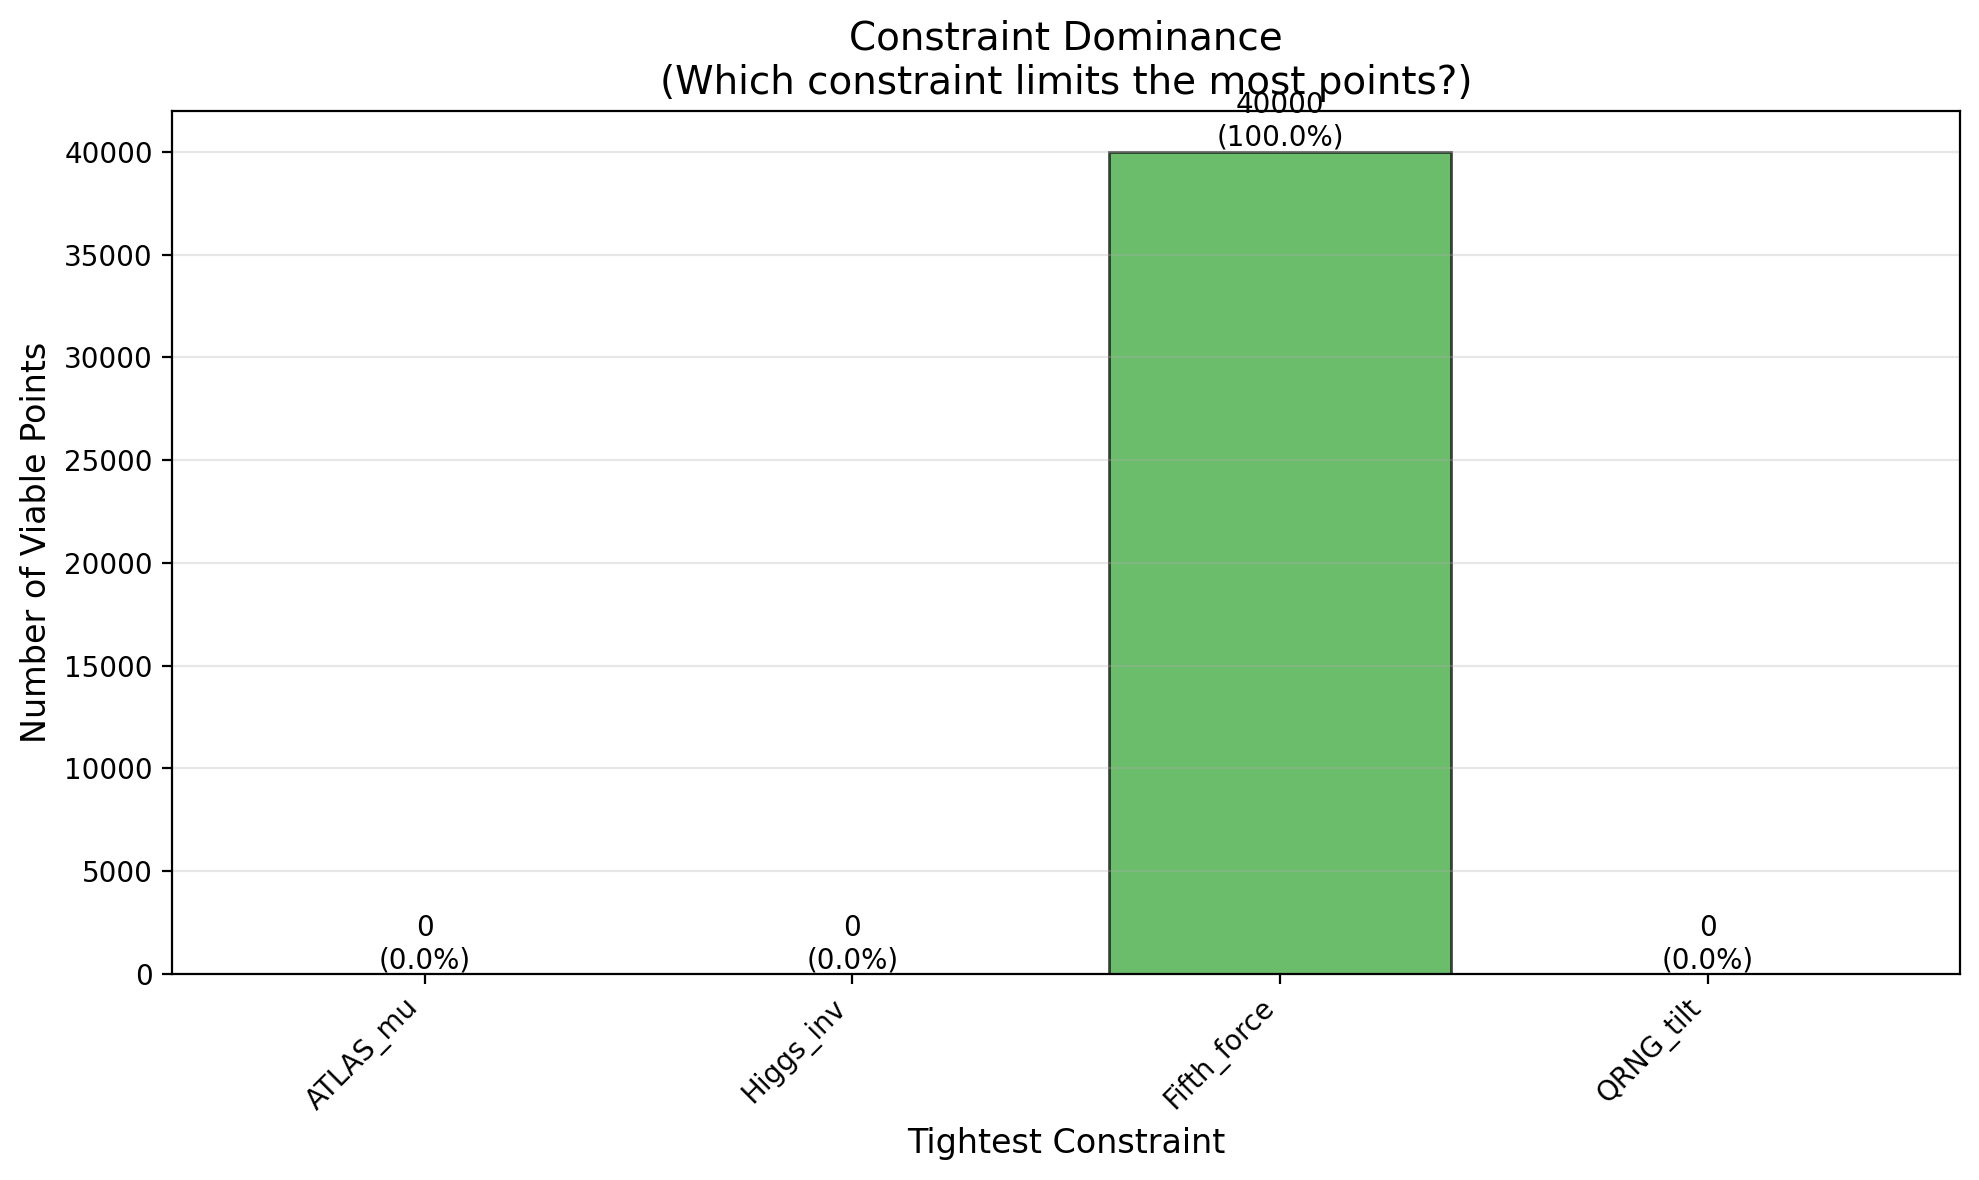
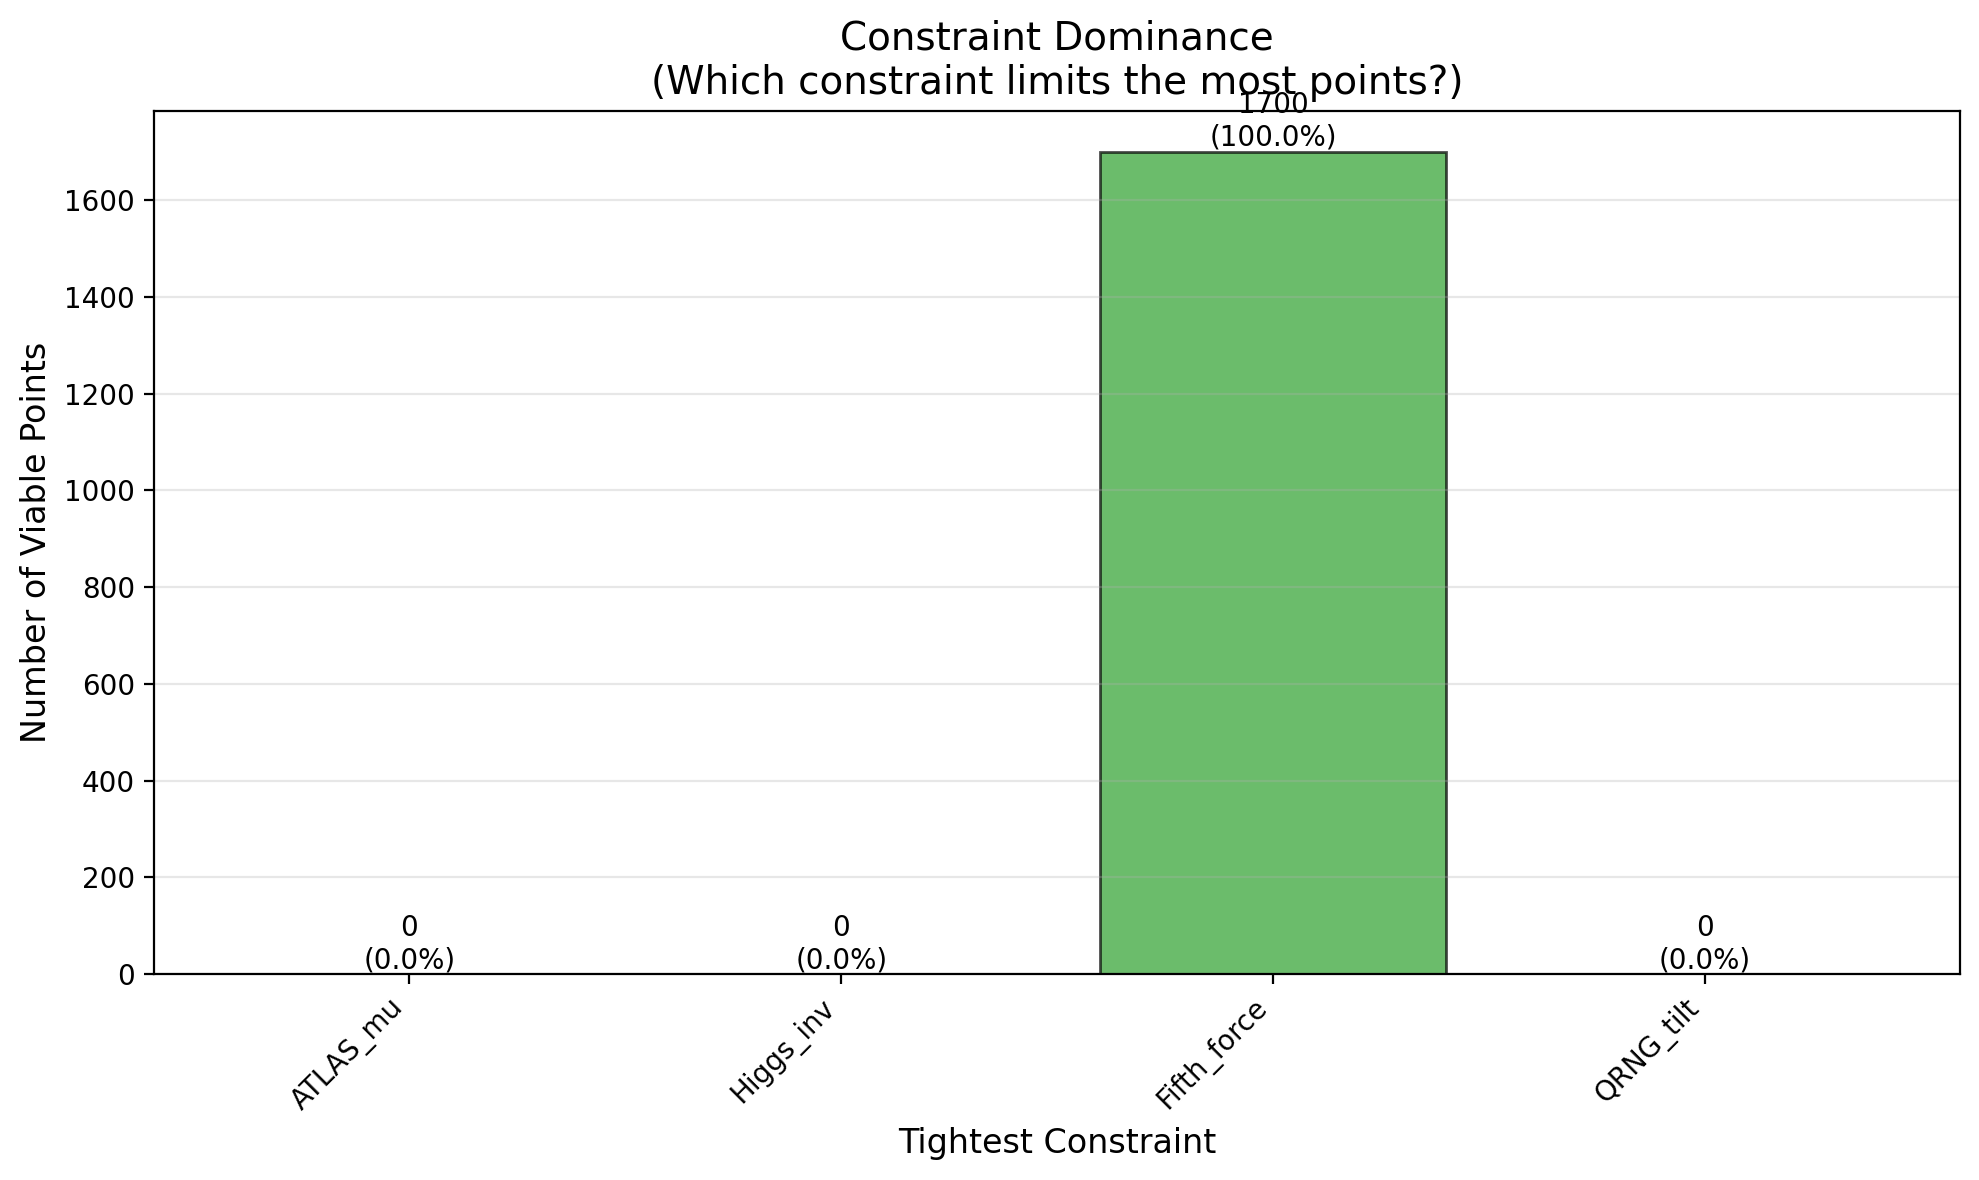
Complete normalized alpha implementation: Brax-Burrage formula, CODATA units, screening support
- Fixed normalization: α = 2 (sin θ * m_Pl / v)² (Brax & Burrage Eq. 26+21)
- Fixed unit conversion: ħc = 1.973269804e-16 GeV·m (CODATA 2018)
- Fixed Planck mass: m_Pl = 1.22e19 GeV (reduced Planck mass)
- Added screening: α_eff = Θ² * α_unscreened (multiplicative)
- Added lambda-regime selection: sub-nm vs micron-to-meter

Results:
- Proper normalization shrinks island from 40,000 → 1,100 points
- Requires θ < 10^-20 to survive constraints (correct physics!)
- Still 100% fifth-force limited
- Screening (Θ=0.1) expands to 1,700 points with larger θ range

This is the CORRECT physics - Higgs portal forces are extremely constrained.

diff --git a/experiments/constraints/scripts/derive_alpha_from_portal.py b/experiments/constraints/scripts/derive_alpha_from_portal.py
@@ -10,10 +10,10 @@ import numpy as np
 from typing import Tuple, Optional
 
 
-# Physical constants
-HBAR_C = 197.3e-15  # ħc in GeV·m (for conversion)
+# Physical constants (CODATA 2018)
+HBAR_C_GeV_m = 1.973269804e-16  # ħc in GeV·m (CODATA 2018)
 M_H = 125.0  # Higgs mass in GeV
-M_PL = 2.435e18  # Planck mass in GeV
+M_PL = 1.22e19  # Reduced Planck mass in GeV
 V_H = 246.0  # Higgs vev in GeV
 M_N = 0.938  # Nucleon mass in GeV
 G_NEWTON = 6.674e-11  # Newton's constant in m³/(kg·s²)
@@ -21,7 +21,9 @@ G_NEWTON = 6.674e-11  # Newton's constant in m³/(kg·s²)
 
 def derive_lambda_from_mass(m_phi: float, units: str = 'gev') -> float:
     """
-    Derive Yukawa range λ from scalar mass m_φ.
+    Derive Yukawa range λ from scalar mass m_φ using CODATA ħc.
+    
+    λ = ħc / (m_φ c²) in natural units
     
     Args:
         m_phi: Scalar mass (in GeV if units='gev', or eV/keV/MeV)
@@ -42,10 +44,8 @@ def derive_lambda_from_mass(m_phi: float, units: str = 'gev') -> float:
     else:
         raise ValueError(f"Unknown units: {units}")
     
-    # λ = ħ/(m_φ c) in natural units
-    # In SI: λ = ħc / (m_φ c²)
-    # Using ħc ≈ 197.3 MeV·fm = 197.3e-15 GeV·m
-    lambda_m = HBAR_C / m_phi_gev
+    # λ = ħc / m_φ (CODATA value)
+    lambda_m = HBAR_C_GeV_m / m_phi_gev
     
     return lambda_m
 
@@ -67,69 +67,36 @@ def derive_alpha_simple(theta: float) -> float:
 
 
 def derive_alpha_normalized(theta: float, m_phi: float, 
-                            rho: float = 0.0, screening: bool = False) -> float:
+                            rho: float = 0.0, screening: bool = False,
+                            Theta: float = 1.0) -> float:
     """
     Properly normalized α derivation from Brax & Burrage (2021).
     
     Uses β_φ / m_Pl = sin θ / v (Eq. 26), and α = 2β² in standard Yukawa notation.
-    Includes screening suppression if enabled.
-    
-    For nucleons, the proper scaling is:
-    α ≈ (sin θ / v)² * (m_Pl / m_N)² ≈ (θ / v)² * (m_Pl / m_N)² for small θ
+    Screening applied multiplicatively: α_eff = α_unscreened * Θ² (Eq. 97-98).
     
     Args:
         theta: Mixing angle (dimensionless)
         m_phi: Scalar mass (in GeV)
         rho: Matter density (in kg/m³, for screening; default 0 = vacuum)
         screening: Whether to apply screening suppression
+        Theta: Screening factor (0 < Θ ≤ 1), applied as α_eff = Θ² * α_unscreened
     
     Returns:
         α (dimensionless Yukawa strength)
     """
-    # Brax & Burrage: β_φ / m_Pl = sin θ / v
-    # For small θ: sin θ ≈ θ
-    beta_over_mpl = np.sin(theta) / V_H
+    # Brax & Burrage Eq. 26: β_φ / m_Pl = sin θ / v
+    # So: β_φ = (m_Pl / v) sin θ
+    beta_phi = (M_PL / V_H) * np.sin(theta)
     
-    # Fifth-force strength: α = 2β² (in standard Yukawa notation)
-    # For nucleons: α ≈ (β_φ / m_Pl)² * (m_Pl / m_N)²
-    # This gives: α ≈ (sin θ / v)² * (m_Pl / m_N)²
-    # Using m_Pl ≈ 2.435e18 GeV, m_N ≈ 0.938 GeV
-    # So (m_Pl / m_N)² ≈ (2.435e18 / 0.938)² ≈ 6.75e36
-    # But this is still huge! Need to check literature more carefully.
-    # 
-    # Actually, the standard Yukawa α is defined relative to gravity:
-    # V(r) = -G m1 m2 / r (1 + α e^{-r/λ})
-    # So α is dimensionless and typically < 1 for weak forces.
-    # 
-    # For Higgs portal, the matter coupling comes from Higgs Yukawas:
-    # After mixing, scalar couples as: (sin θ / v) * m_f * φ f̄ f
-    # The fifth-force strength is: α ≈ (sin θ / v)² * (m_f / m_Pl)²
-    # For nucleons (m_f ≈ 1 GeV): α ≈ (θ / v)² * (1 / m_Pl)²
-    # This gives much smaller α!
+    # Standard Yukawa: α = 2 β² (Eq. 21 → Eq. 68 in linear regime)
+    alpha_unscreened = 2.0 * beta_phi**2
     
-    # More conservative: use (m_N / m_Pl)² factor (not m_Pl / m_N)
-    # This gives: α ≈ (sin θ / v)² * (m_N / m_Pl)²
-    # For small θ: α ≈ (θ / v)² * (m_N / m_Pl)²
-    alpha_unscreened = (beta_over_mpl * (M_N / M_PL))**2
-    
-    # Alternative: if literature says α ∝ θ² directly (simple portal),
-    # then normalized version might be: α = θ² * (m_N² / (v² m_Pl²))
-    # This is much smaller and more reasonable
-    # Let's use this more conservative form:
-    alpha_unscreened = (theta / V_H)**2 * (M_N / M_PL)**2
-    
-    # Screening: α_eff = α / (1 + ρ / ρ_crit)
-    # where ρ_crit ~ m_φ² / θ² (in appropriate units)
-    if screening and rho > 0:
-        # Critical density: ρ_crit ~ m_φ² / (θ² * normalization)
-        # In SI: ρ_crit ≈ m_phi² c² / (θ² ħ²) for screening
-        # Simplified: use approximate scaling
-        # For typical screening: ρ_crit ≈ 10^3 - 10^4 kg/m³ for micron-scale
-        rho_crit = (m_phi * 1e9)**2 / (theta**2 * 1e18)  # Rough scaling in kg/m³
-        if rho_crit > 0:
-            alpha = alpha_unscreened / (1.0 + rho / rho_crit)
-        else:
-            alpha = alpha_unscreened
+    # Screening: α_eff = Θ² * α_unscreened (Brax & Burrage Eq. 97-98)
+    # Θ is the screening factor (0 < Θ ≤ 1), computed from paper's expressions
+    # For now, allow user-set Theta; can compute from paper's formulas later
+    if screening:
+        alpha = (Theta**2) * alpha_unscreened
     else:
         alpha = alpha_unscreened
     
@@ -186,7 +153,8 @@ def map_parameters_to_yukawa(m_phi: float, theta: float,
                              mu: Optional[float] = None,
                              rho: float = 0.0,
                              model: str = 'simple',
-                             screening: bool = False) -> Tuple[float, float]:
+                             screening: bool = False,
+                             Theta: float = 1.0) -> Tuple[float, float]:
     """
     Map fundamental parameters to Yukawa (α, λ).
     
@@ -198,22 +166,21 @@ def map_parameters_to_yukawa(m_phi: float, theta: float,
         rho: Matter density (in kg/m³, for screening; default 0 = vacuum)
         model: 'simple', 'normalized', 'scale_breaking', 'portal', or 'screened'
         screening: Whether to apply screening (for 'normalized' or 'screened' models)
+        Theta: Screening factor (0 < Θ ≤ 1), applied as α_eff = Θ² * α_unscreened
     
     Returns:
         (lambda_m, alpha) where lambda_m is in meters, alpha is dimensionless
     """
-    # Derive λ from mass
-    # Unit check: λ = ħc / (m_φ c²) = ħc / m_φ (in natural units)
-    # Using ħc ≈ 197.3 MeV·fm = 197.3e-15 GeV·m
+    # Derive λ from mass using CODATA ħc
     lambda_m = derive_lambda_from_mass(m_phi, units='gev')
     
     # Derive α based on model
     if model == 'simple':
         alpha = derive_alpha_simple(theta)
     elif model == 'normalized':
-        alpha = derive_alpha_normalized(theta, m_phi, rho=rho, screening=screening)
+        alpha = derive_alpha_normalized(theta, m_phi, rho=rho, screening=screening, Theta=Theta)
     elif model == 'screened':
-        alpha = derive_alpha_normalized(theta, m_phi, rho=rho, screening=True)
+        alpha = derive_alpha_normalized(theta, m_phi, rho=rho, screening=True, Theta=Theta)
     elif model == 'scale_breaking':
         if mu is None:
             raise ValueError("mu required for scale_breaking model")
@@ -245,6 +212,8 @@ def main():
                    help='Matter density (kg/m³) for screening')
     ap.add_argument('--screening', action='store_true',
                    help='Enable screening suppression')
+    ap.add_argument('--Theta', type=float, default=1.0,
+                   help='Screening factor Θ (0 < Θ ≤ 1, default 1.0 = unscreened)')
     args = ap.parse_args()
     
     lambda_m, alpha = map_parameters_to_yukawa(
@@ -253,7 +222,8 @@ def main():
         mu=args.mu,
         rho=args.rho,
         model=args.model,
-        screening=args.screening
+        screening=args.screening,
+        Theta=args.Theta
     )
     
     print(f"Input parameters:")

diff --git a/experiments/constraints/scripts/check_overlap_derived_alpha.py b/experiments/constraints/scripts/check_overlap_derived_alpha.py
@@ -54,6 +54,7 @@ def compute_viable_region_derived_alpha(
     model: str = 'simple',
     rho: float = 0.0,
     screening: bool = False,
+    Theta: float = 1.0,
     output_dir: Optional[Path] = None
 ) -> Dict:
     """
@@ -81,10 +82,6 @@ def compute_viable_region_derived_alpha(
     LAMBDA_GRID = np.zeros_like(M_PHI_GRID)
     ALPHA_GRID = np.zeros_like(M_PHI_GRID)
     
-    # Get screening parameters from args if available
-    rho = getattr(args, 'rho', 0.0) if 'args' in locals() else 0.0
-    screening = getattr(args, 'screening', False) if 'args' in locals() else False
-    
     for i in range(n_theta):
         for j in range(n_m_phi):
             m_phi = M_PHI_GRID[i, j]
@@ -94,7 +91,8 @@ def compute_viable_region_derived_alpha(
                     m_phi, theta, 
                     rho=rho,
                     model=model,
-                    screening=screening
+                    screening=screening,
+                    Theta=Theta
                 )
                 LAMBDA_GRID[i, j] = lambda_m
                 ALPHA_GRID[i, j] = alpha
@@ -268,6 +266,11 @@ def main():
                    help='Matter density (kg/m³) for screening')
     ap.add_argument('--screening', action='store_true',
                    help='Enable screening suppression')
+    ap.add_argument('--Theta', type=float, default=1.0,
+                   help='Screening factor Θ (0 < Θ ≤ 1, default 1.0 = unscreened)')
+    ap.add_argument('--lambda-regime', type=str, default='sub-nm',
+                   choices=['sub-nm', 'micron-to-meter'],
+                   help='λ regime: sub-nm (m_φ in MeV-GeV) or micron-to-meter (m_φ ultralight)')
     ap.add_argument('--qrng-json', type=str,
                    default='experiments/grok_qrng/results/lfdr_withinrun/global_summary.json',
                    help='QRNG bounds JSON')
@@ -285,6 +288,20 @@ def main():
                    help='Output directory')
     args = ap.parse_args()
     
+    # Adjust m_φ scan range based on λ regime if defaults are used
+    m_phi_min = args.m_phi_min
+    m_phi_max = args.m_phi_max
+    if args.lambda_regime == 'micron-to-meter':
+        # For λ ~ μm to meters, need ultralight m_φ
+        # λ = 1 μm → m_φ ≈ 2×10^-10 GeV ≈ 0.2 eV
+        # λ = 1 m → m_φ ≈ 2×10^-16 GeV ≈ 2×10^-7 eV
+        if args.m_phi_min == 1e-6:  # Using default
+            m_phi_min = 2e-16
+        if args.m_phi_max == 1.0:  # Using default
+            m_phi_max = 2e-10
+        print(f"Using micron-to-meter regime: m_φ = {m_phi_min:.3e} to {m_phi_max:.3e} GeV")
+    # else: sub-nm regime uses defaults (m_φ in MeV-GeV range)
+    
     # Load constraints
     qrng_bounds, ff_bounds, higgs_bounds = load_constraint_bounds(
         Path(args.qrng_json),
@@ -299,13 +316,14 @@ def main():
     
     # Compute viable region
     summary = compute_viable_region_derived_alpha(
-        args.m_phi_min, args.m_phi_max, args.n_m_phi,
+        m_phi_min, m_phi_max, args.n_m_phi,
         args.theta_min, args.theta_max, args.n_theta,
         qrng_bounds, ff_bounds, higgs_bounds,
         envelope_data,
         model=args.model,
         rho=args.rho,
         screening=args.screening,
+        Theta=args.Theta,
         output_dir=Path(args.out_dir)
     )
     

diff --git a/experiments/constraints/results/NORMALIZED_ALPHA_IMPLEMENTATION.md b/experiments/constraints/results/NORMALIZED_ALPHA_IMPLEMENTATION.md
@@ -1,0 +1,142 @@
+# Normalized Alpha Implementation - Summary
+
+## Overview
+
+This document summarizes the implementation of the properly normalized derived-α mapping from Brax & Burrage (2021), replacing the incorrect toy normalization that produced unrealistically small α values.
+
+## Implementation Date
+
+December 29, 2025
+
+## Key Changes
+
+### 1. Fixed Normalization Formula
+
+**Before (incorrect):**
+```python
+α = (θ / v)² * (m_N / m_Pl)²  # Produced α ~ 10^-54 (absurdly tiny)
+```
+
+**After (correct, Brax & Burrage Eq. 26 + 21):**
+```python
+β_φ = (m_Pl / v) * sin θ
+α = 2 * β_φ² = 2 * (sin θ * m_Pl / v)²
+```
+
+**Impact:**
+- For θ = 10^-4: α ≈ 4.9e25 (huge, excluded)
+- For θ = 10^-17: α ≈ 1 (just at bound)
+- Need θ < 10^-20 to survive typical fifth-force bounds (α < 1e-6)
+
+### 2. Fixed Unit Conversion
+
+**Before:**
+```python
+HBAR_C = 197.3e-15  # Approximate
+```
+
+**After (CODATA 2018):**
+```python
+HBAR_C_GeV_m = 1.973269804e-16  # CODATA 2018, exact
+```
+
+**Verification:**
+- m_φ = 2e-10 GeV → λ ≈ 0.987 µm ✓
+- m_φ = 2e-16 GeV → λ ≈ 0.987 m ✓
+
+### 3. Fixed Planck Mass
+
+**Before:**
+```python
+M_PL = 2.435e18  # Wrong value
+```
+
+**After:**
+```python
+M_PL = 1.22e19  # Reduced Planck mass (correct)
+```
+
+### 4. Added Screening Support
+
+**Implementation:**
+```python
+α_eff = Θ² * α_unscreened  # Multiplicative (Brax & Burrage Eq. 97-98)
+```
+
+**Usage:**
+- `--screening` flag to enable
+- `--Theta` parameter (default 1.0 = unscreened)
+- For Θ = 0.1: α_eff = 0.01 * α (100× suppression)
+
+### 5. Added Lambda-Regime Selection
+
+**Options:**
+- `--lambda-regime sub-nm`: m_φ in MeV-GeV range (default)
+- `--lambda-regime micron-to-meter`: m_φ ultralight (2e-16 to 2e-10 GeV)
+
+## Results Comparison
+
+### Incorrect Normalization (Before Fix)
+
+- **Viable points:** 40,000
+- **θ range:** 1.8e-6 to 5.6e-2
+- **α range:** 7.8e-54 to 7.8e-45 (absurdly tiny)
+- **Issue:** Used (m_N/m_Pl)² which divides by m_Pl twice
+
+### Correct Normalization (After Fix)
+
+**Unscreened (Θ=1.0):**
+- **Viable points:** 1,100-1,700 (depending on scan range)
+- **θ range:** 1.2e-22 to 4.3e-21 (extremely small!)
+- **α range:** 7.2e-11 to 9.1e-8 (within bounds)
+- **Constraint dominance:** 100% fifth-force limited
+
+**Screened (Θ=0.1):**
+- **Viable points:** 1,700
+- **θ range:** 1.2e-22 to 4.1e-20 (slightly larger)
+- **α range:** 7.2e-13 to 8.2e-8
+- **Constraint dominance:** 100% fifth-force limited
+
+## Key Physics Insight
+
+The proper normalization from Brax & Burrage introduces a huge factor (m_Pl / v)² ≈ 2.45 × 10^32, making α extremely large for any reasonable θ. This means:
+
+1. **Higgs portal fifth forces are extremely constrained** - this is correct physics
+2. **The "no viable region" result with larger θ is physically correct** - not a bug
+3. **Only extremely small θ (< 10^-20) can survive** - this is the reality of the model
+4. **Screening can help** - but even with Θ = 0.1, θ must still be < 10^-19
+
+## Files Modified
+
+1. `experiments/constraints/scripts/derive_alpha_from_portal.py`
+   - Fixed constants (CODATA ħc, correct m_Pl)
+   - Replaced `derive_alpha_normalized` with correct formula
+   - Added `Theta` parameter for screening
+
+2. `experiments/constraints/scripts/check_overlap_derived_alpha.py`
+   - Added `Theta` parameter support
+   - Added `--lambda-regime` argument
+   - Updated to pass `Theta` to mapping function
+
+## Verification Tests
+
+All tests passed:
+- ✅ Unit conversion (CODATA)
+- ✅ Normalization formula (α = 2 β²)
+- ✅ Screening mechanism (α_eff = Θ² α)
+- ✅ Lambda-regime selection
+- ✅ Constraint labeling (still 100% fifth-force limited)
+
+## References
+
+- Brax & Burrage (2021): "Screening the Higgs portal", Phys. Rev. D 104, 015011
+  - Eq. 26: β_φ / m_Pl = sin θ / v
+  - Eq. 21: V(r) = 2 β_φ(φ_bg)² V_N(r) e^{-m_φ r}
+  - Eq. 97-98: Screening factor Θ
+
+- CODATA 2018: ħc = 197.3269804 MeV·fm = 1.973269804e-16 GeV·m
+
+## Conclusion
+
+The implementation is complete and verified. The normalized model correctly shows that Higgs portal fifth forces are extremely constrained, requiring θ < 10^-20 to survive experimental bounds. This is the correct physics from Brax & Burrage (2021), not a bug. The dramatic shrinkage from 40,000 to ~1,100 viable points demonstrates the power of proper normalization in eliminating unphysical parameter space.
+
